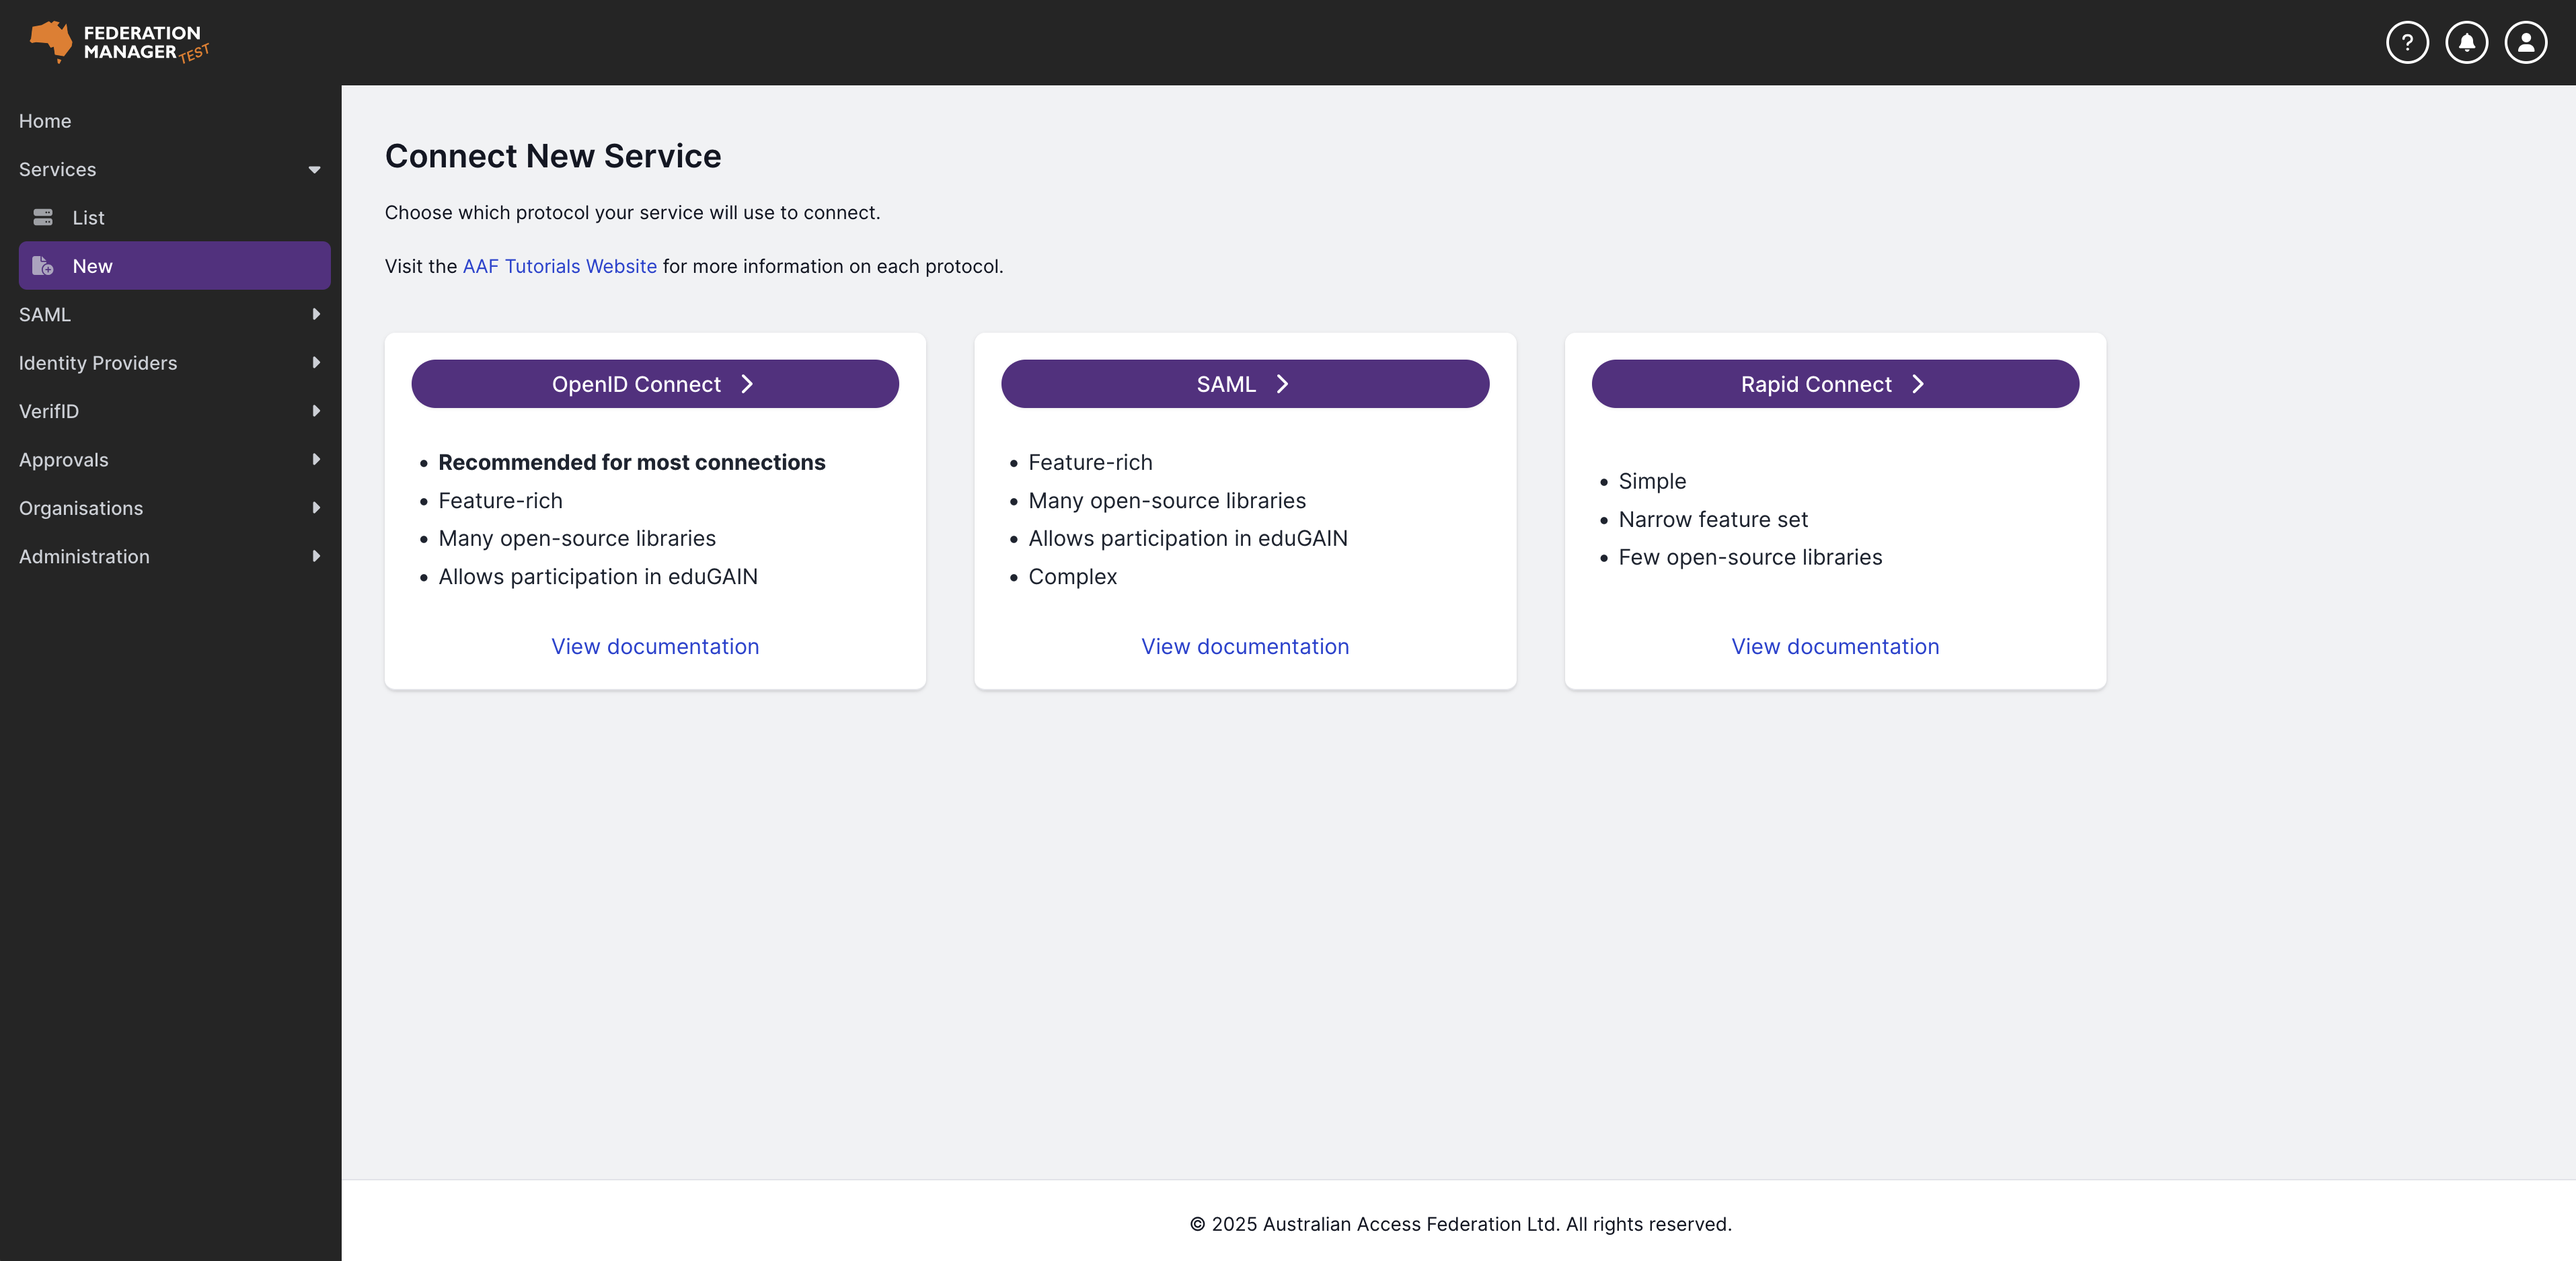
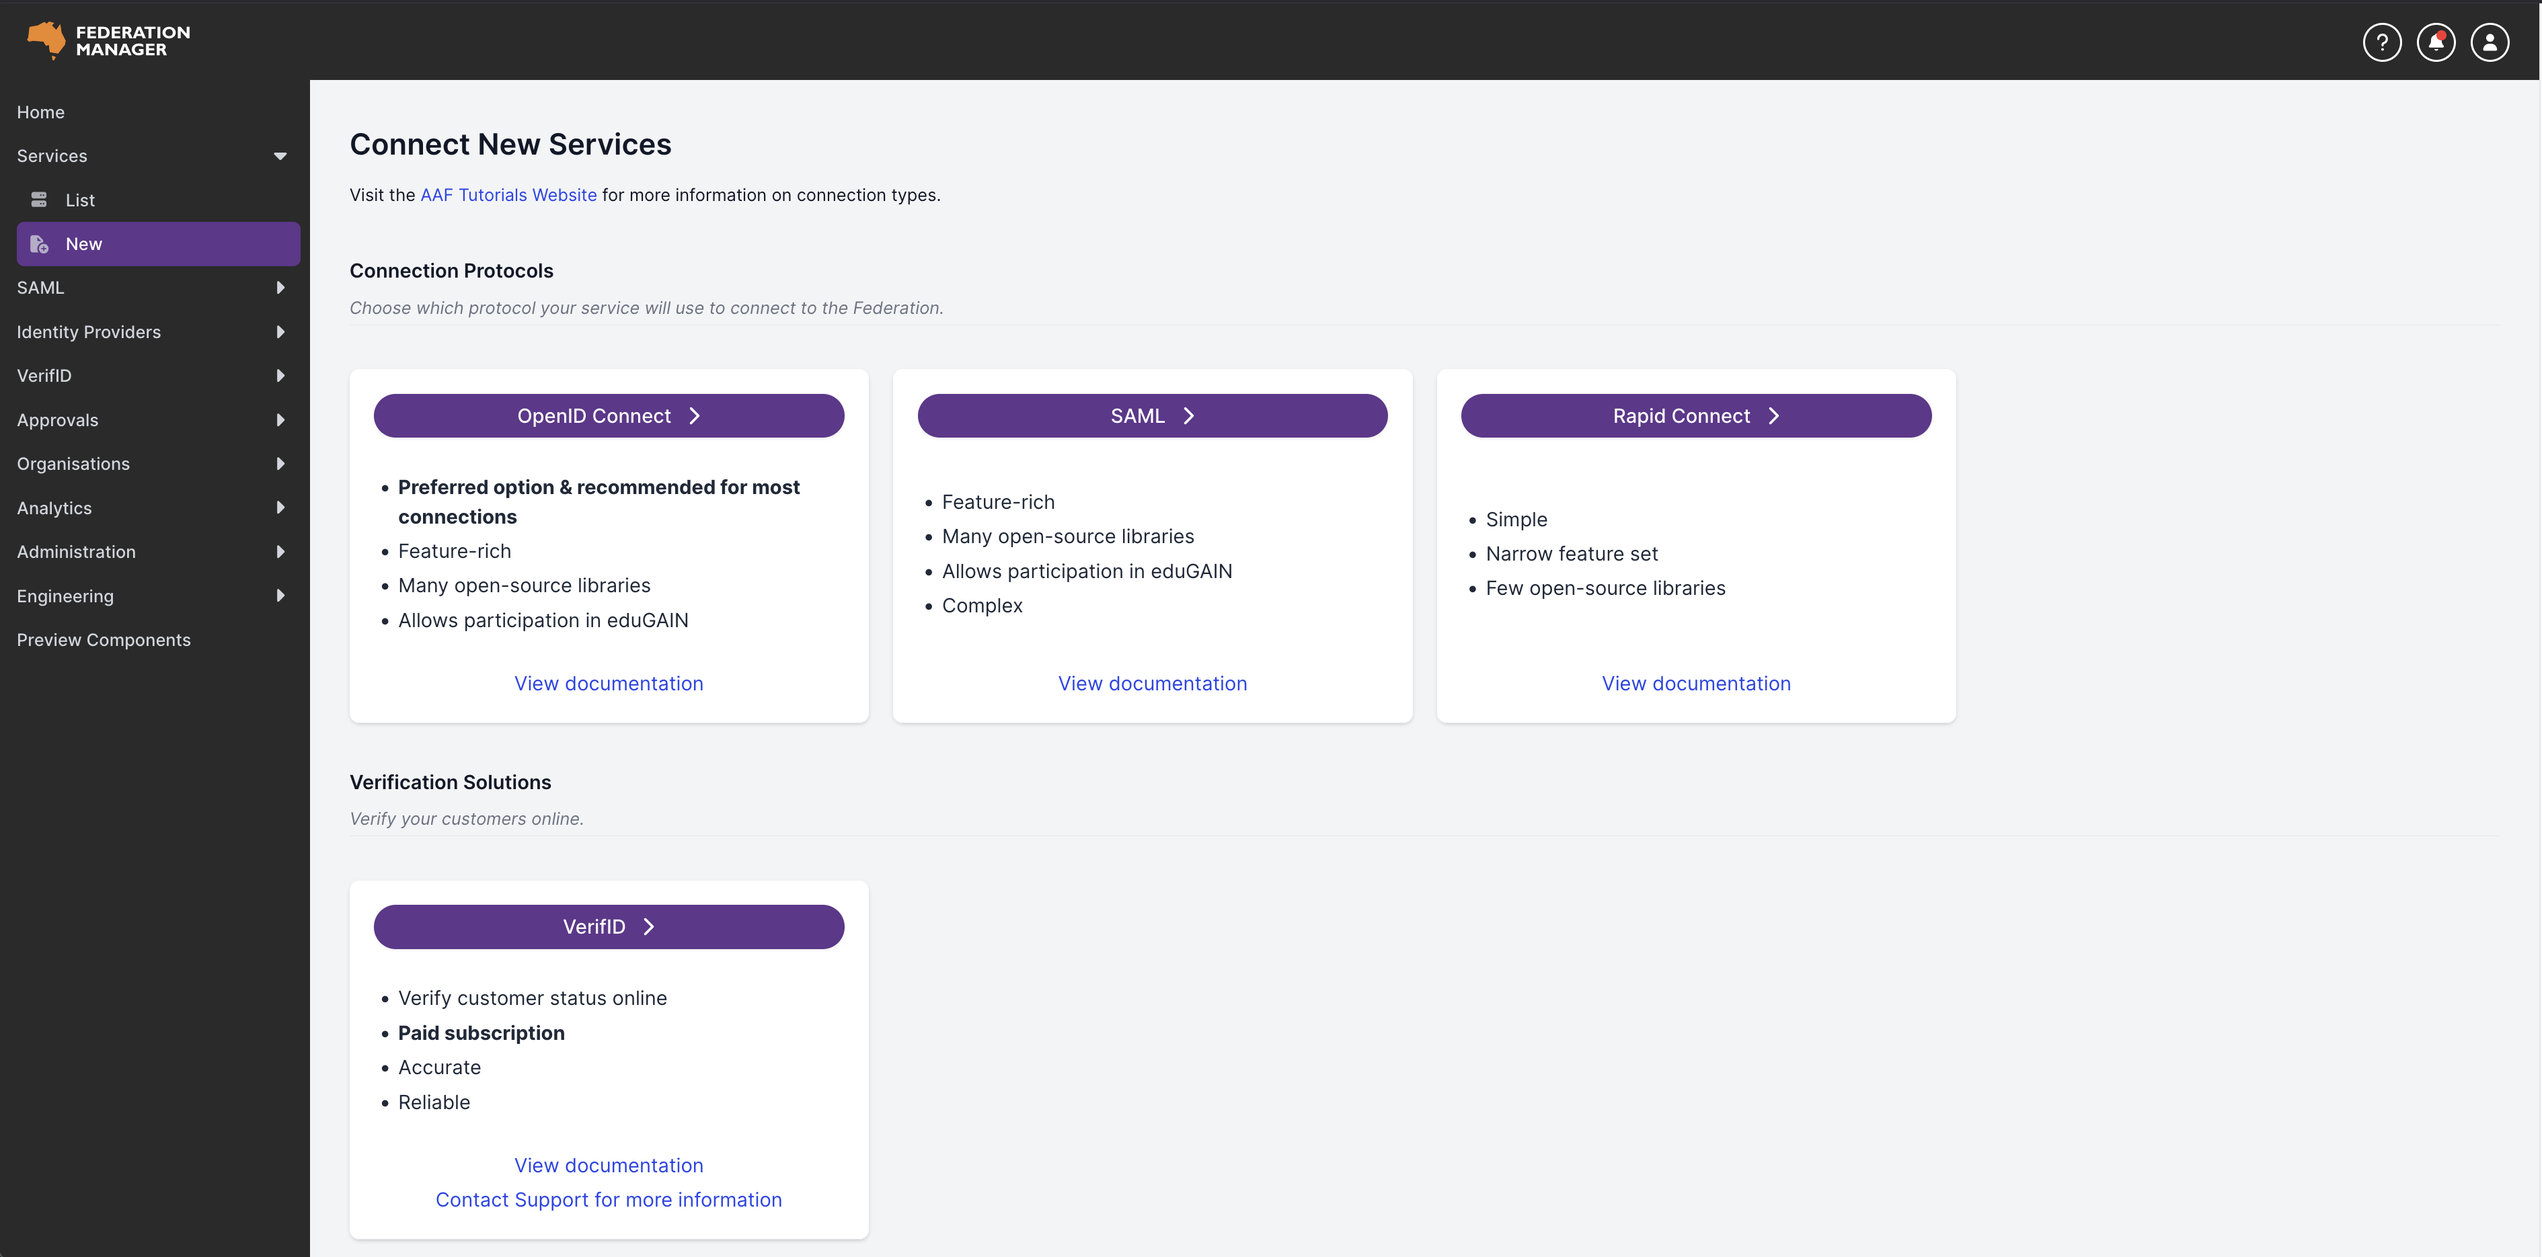
Update VerifID tutorial and references (#192)
* Update verifid tutorial and references

* Add FM Prod link

diff --git a/docs/_connect-with-verifid/02-connect-verifid-service.md b/docs/_connect-with-verifid/02-connect-verifid-service.md
@@ -9,21 +9,13 @@ To register as a new client with VerifID Global:
 
 1. Contact [AAF Support](mailto:support@aaf.edu.au) first to discuss terms and conditions.
 
-2. Register your details in the Federation:
-- [Test Federation](https://manager.test.aaf.edu.au/verifid/register)
-- [Production Federation](https://manager.aaf.edu.au/verifid/register)
+2. Log into [Federation Manager](/log-into-federation-manager/01-overview) to get started.
 
-{: .callout-info}
+3. Once you have clicked on 'VerifID' on the 'Connect a New Service' page in:
+   4. [Federation Manager (Test)](https://manager.test.aaf.edu.au/services/new), or
+   5. [Federation Manager (Production)](https://manager.aaf.edu.au/services/new), you will be taken to the VerifID Client Registration page.
 
-Note: You will need an AAF account (e.g. VHO account) to access the above registration link. Contact [AAF Support](mailto:support@aaf.edu.au) to request an account or alternatively, send your registration details (i.e. Display Name and Redirect URI, as shown on the form below) to [AAF Support](mailto:support@aaf.edu.au).
-{: .callout-info}
-
-If you have an AAF account and have clicked on the [registration link](https://manager.aaf.edu.au/verifid/register), you will be taken to the VerifID Client Registration page:
-
-![Verifid Client Registration](/assets/images/connect-with-verifid/verifid-client-registration.png)
-
-
-Please provide the following information:
+4. Please provide the following information:
 
 <ul class="list-group">
   <li class="list-group-item"><strong>Display Name</strong> - The human-readable name of your client. This will be shown to 
@@ -36,4 +28,4 @@ whitespace characters.</li>
 
 - Click **Register Now** to complete your registration.
 
-For more information about VerifID and how it works, refer to the [VerifID Global website](https://verifid.com.au/#focus).
+![Verifid Client Registration](/assets/images/connect-with-verifid/verifid-client-registration.png)

diff --git a/docs/_verifid-integration/01-overview.md b/docs/_verifid-integration/01-overview.md
@@ -13,6 +13,10 @@ The VerifID service will:
 - Provide no data about a User other than their Affiliation to the Institution. The status will be provided by the User’s Organisation at the point of verification and the accuracy of this information is outside VerifID Service Operators' responsibilities.
 - Retain sufficient log information regarding each verification request.
 
+{: .callout-info}
+For more information about VerifID and how it works, refer to the [VerifID Global website](https://verifid.com.au/#focus).
+<br>
+
 ### What you'll learn
 
 - How to use an API for user verification

diff --git a/docs/_log-into-federation-manager/03-connect-new-service.md b/docs/_log-into-federation-manager/03-connect-new-service.md
@@ -9,6 +9,7 @@ last_updated: 29 January, 2025
 
 ![FM Dashboard](/assets/images/log-into-federation-manager/FM-dashboard-test.png)
 
-- Click on the protocol with which you would like to connect your service, i.e. OpenID Connect, Rapid Connect or SAML.
+- Click on the protocol with which you would like to connect your service, i.e. OpenID Connect, Rapid Connect or 
+  SAML. Alternatively, if you are after a verification solution, click on 'VerifID' at the bottom of the page.
 
 ![Connect service](/assets/images/log-into-federation-manager/connect-service.png)
